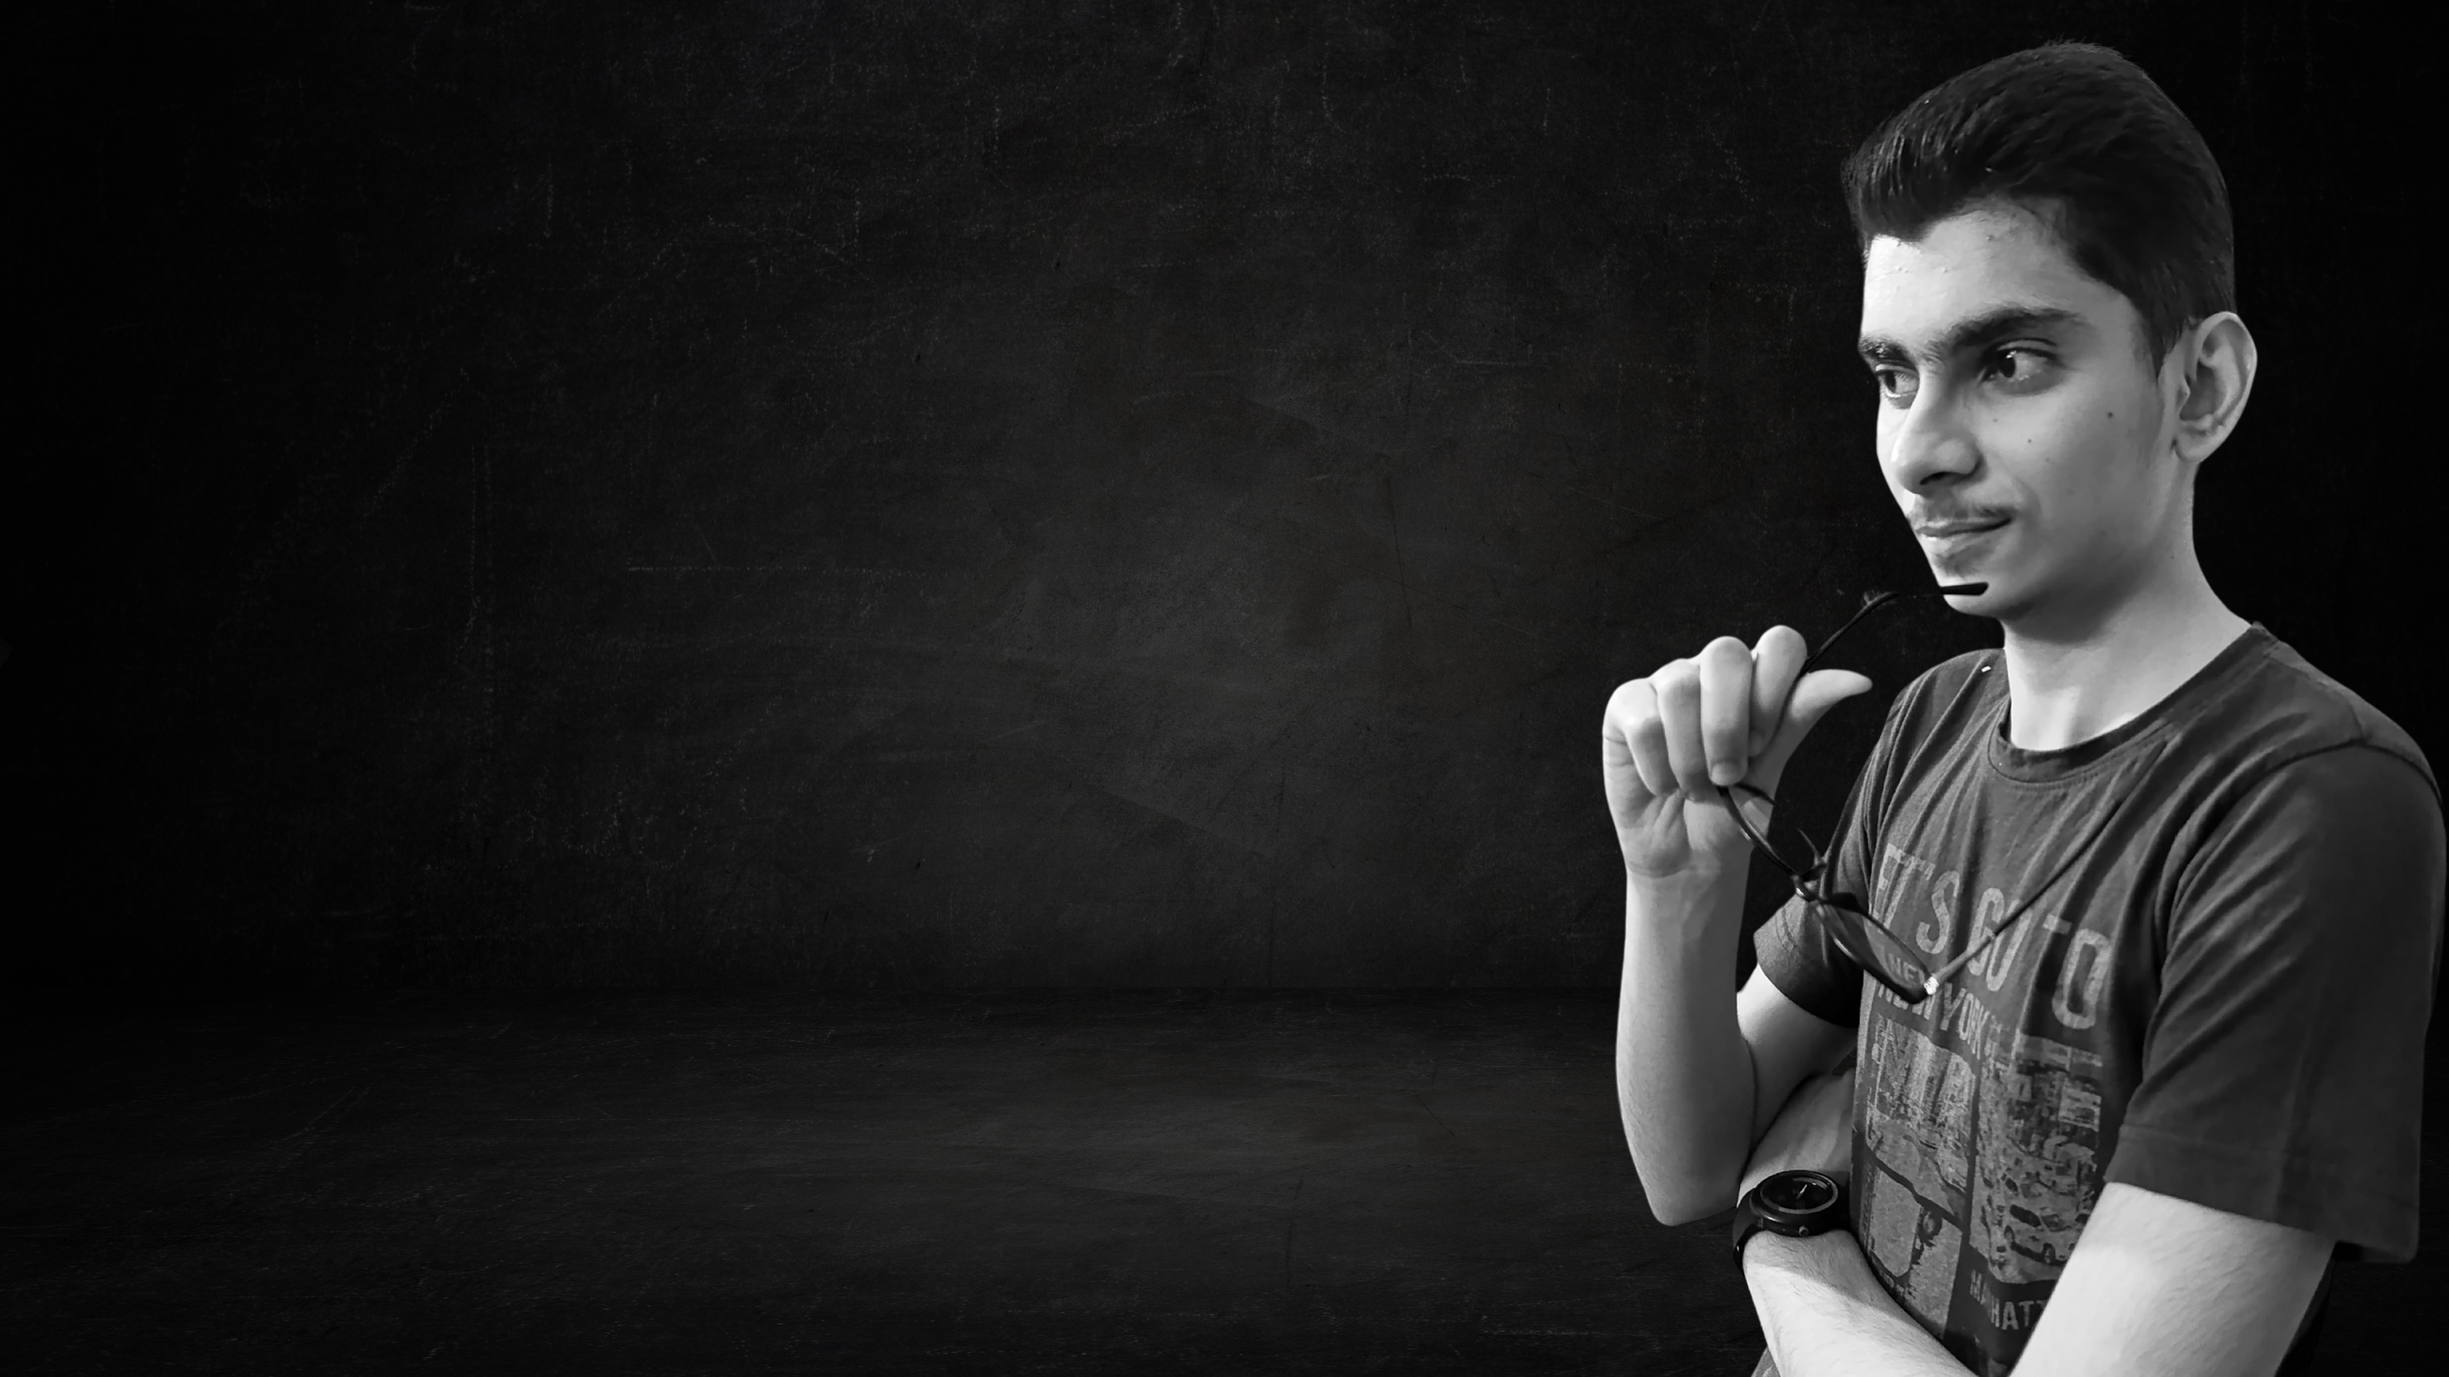
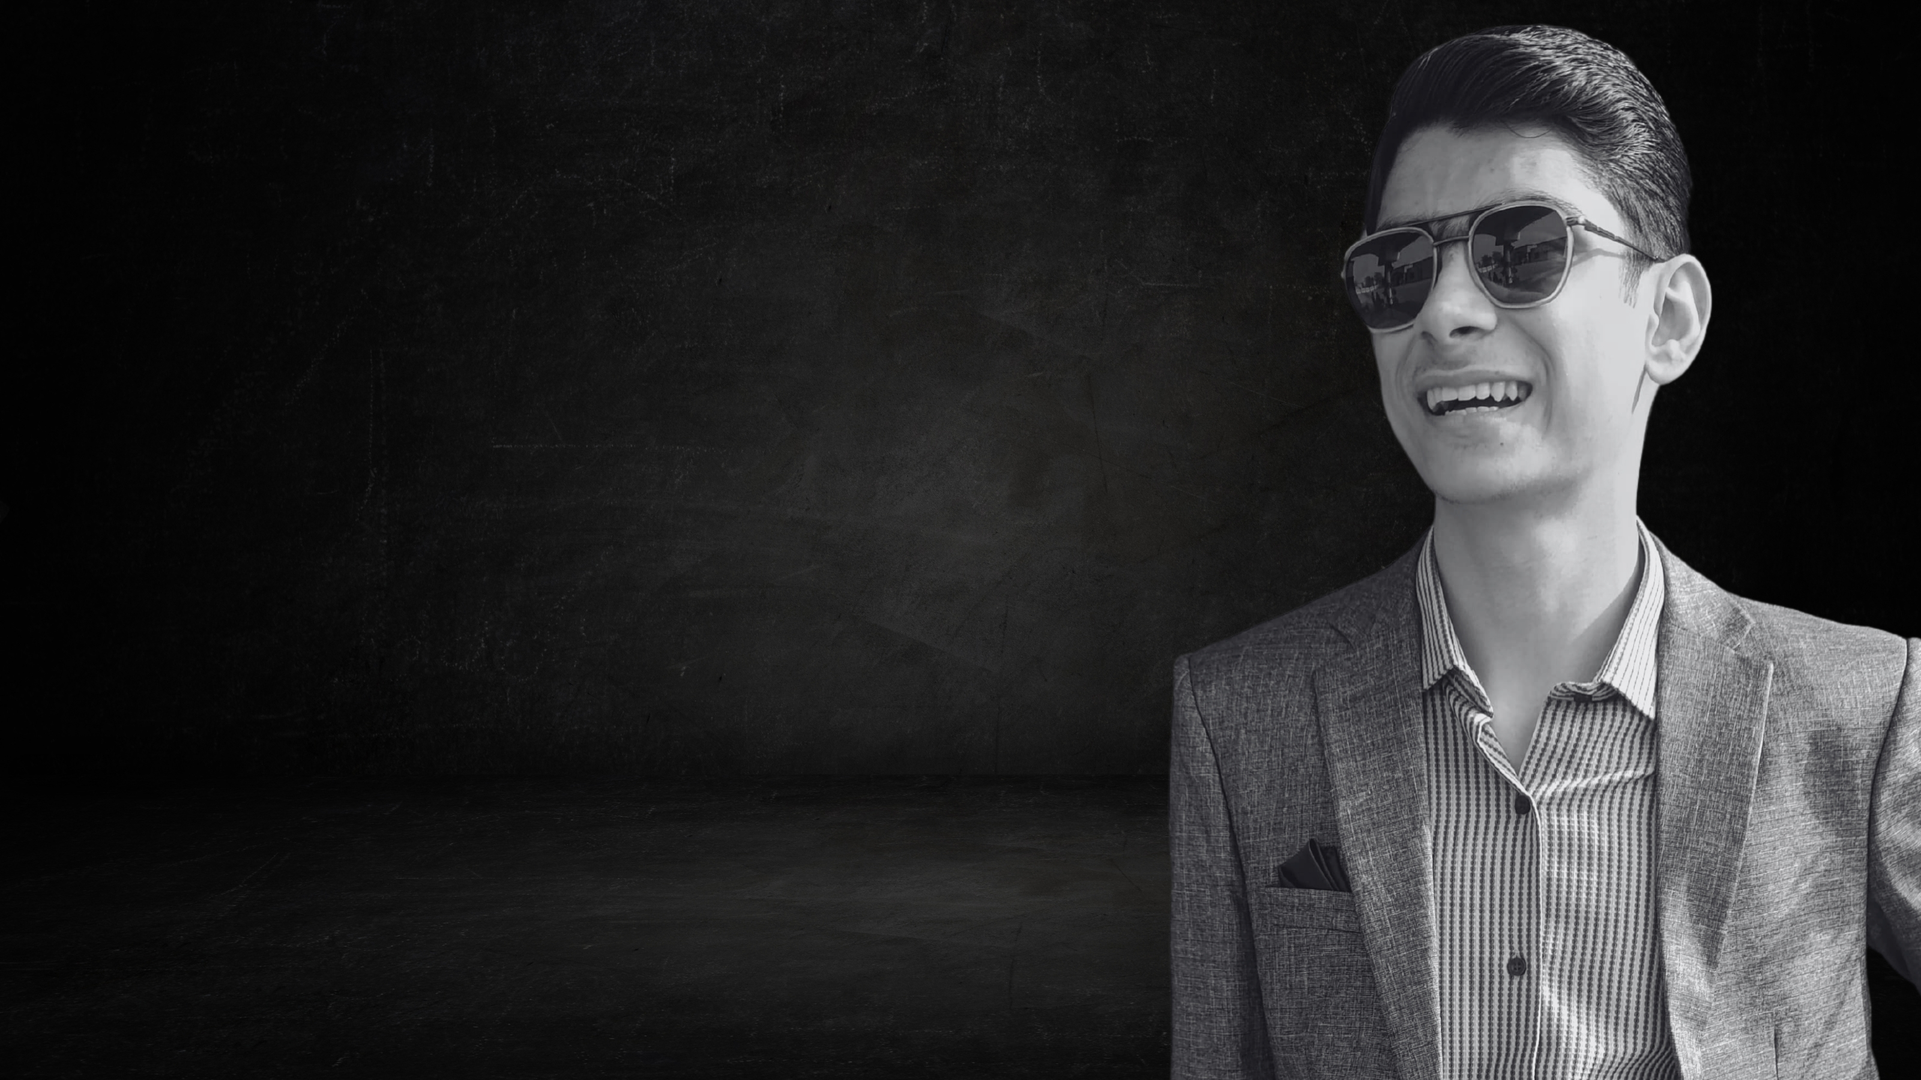
Fazal Portfolio Updated

Changed region(s): [[0.5938, 0.0, 1.0, 1.0]]

diff --git a/index.html b/index.html
@@ -54,9 +54,12 @@
       </nav><!-- .navbar -->
 
       <div class="social-links">
-        <a href="https://www.facebook.com/share/CXfZM9gv1AnUu2Z7/?mibextid=qi2Omg" target="_blank" class="facebook"><i class="bi bi-facebook"></i></a>
-        <a href="https://www.instagram.com/fazalshk_?igsh=cGVub3ZjaXU5bDV5" target="_blank" class="instagram"><i class="bi bi-instagram"></i></a>
-        <a href="https://www.linkedin.com/in/fazal-sheikh" target="_blank" class="linkedin"><i class="bi bi-linkedin"></i></a>
+        <a href="https://www.facebook.com/share/CXfZM9gv1AnUu2Z7/?mibextid=qi2Omg" target="_blank" class="facebook"><i
+            class="bi bi-facebook"></i></a>
+        <a href="https://www.instagram.com/fazalshk_?igsh=cGVub3ZjaXU5bDV5" target="_blank" class="instagram"><i
+            class="bi bi-instagram"></i></a>
+        <a href="https://www.linkedin.com/in/fazal-sheikh" target="_blank" class="linkedin"><i
+            class="bi bi-linkedin"></i></a>
       </div>
 
     </div>
@@ -97,7 +100,8 @@
             </div>
             <div class="col-lg-6">
               <ul>
-                <li><i class="bi bi-chevron-right"></i> <strong>Age:</strong> <span>19</span></li>
+                <li><i class="bi bi-chevron-right"></i> <strong>Essence:</strong> <span>Synergical &
+                    Philosophical</span></li>
                 <li><i class="bi bi-chevron-right"></i> <strong>Degree:</strong> <span>BBA (Ongoing)</span></li>
                 <li><i class="bi bi-chevron-right"></i> <strong>Email:</strong> <span>fazalassist@gmail.com</span></li>
                 <li><i class="bi bi-chevron-right"></i> <strong>Freelance:</strong> <span>Available</span></li>
@@ -327,13 +331,14 @@
             <div class="testimonial-item">
               <p>
                 <i class="bx bxs-quote-alt-left quote-icon-left"></i>
-                Proin iaculis purus consequat sem cure digni ssim donec porttitora entum suscipit rhoncus. Accusantium
-                quam, ultricies eget id, aliquam eget nibh et. Maecen aliquam, risus at semper.
+                Fazal Ellahi demonstrates an exceptional ability to analyze business needs and deliver strategic
+                solutions. His expertise in Amazon FBA, e-commerce operations, and digital marketing reflects a deep
+                understanding of market trends and execution strategies. A results-driven professional with an
+                innovative mindset.
                 <i class="bx bxs-quote-alt-right quote-icon-right"></i>
               </p>
-              <img src="assets/img/testimonials/testimonials-1.jpg" class="testimonial-img" alt="">
-              <h3>Saul Goodman</h3>
-              <h4>Ceo &amp; Founder</h4>
+              <h3>Gohar Ellahi</h3>
+              <h4>Software &amp; Engineer</h4>
             </div>
           </div><!-- End testimonial item -->
 
@@ -341,13 +346,13 @@
             <div class="testimonial-item">
               <p>
                 <i class="bx bxs-quote-alt-left quote-icon-left"></i>
-                Export tempor illum tamen malis malis eram quae irure esse labore quem cillum quid cillum eram malis
-                quorum velit fore eram velit sunt aliqua noster fugiat irure amet legam anim culpa.
+                Fazal’s structured and analytical approach to problem-solving makes him a standout professional. His
+                ability to streamline processes, manage complexities, and optimize performance is truly commendable. He
+                exhibits strong leadership, adaptability, and a growth-oriented mindset.
                 <i class="bx bxs-quote-alt-right quote-icon-right"></i>
               </p>
-              <img src="assets/img/testimonials/testimonials-2.jpg" class="testimonial-img" alt="">
-              <h3>Sara Wilsson</h3>
-              <h4>Designer</h4>
+              <h3>Hooria Amer</h3>
+              <h4>Clinical Psychologist</h4>
             </div>
           </div><!-- End testimonial item -->
 
@@ -355,44 +360,15 @@
             <div class="testimonial-item">
               <p>
                 <i class="bx bxs-quote-alt-left quote-icon-left"></i>
-                Enim nisi quem export duis labore cillum quae magna enim sint quorum nulla quem veniam duis minim tempor
-                labore quem eram duis noster aute amet eram fore quis sint minim.
+                Precision and efficiency define Fazal’s work ethic. His expertise in business development, client
+                relations, and data-driven decision-making positions him as a forward-thinking entrepreneur. His
+                commitment to excellence is evident in every project he undertakes
                 <i class="bx bxs-quote-alt-right quote-icon-right"></i>
               </p>
-              <img src="assets/img/testimonials/testimonials-3.jpg" class="testimonial-img" alt="">
-              <h3>Jena Karlis</h3>
-              <h4>Store Owner</h4>
+              <h3>Dr. Noor Aqsa</h3>
+              <h4>MBBS - Radiologist</h4>
             </div>
           </div><!-- End testimonial item -->
-
-          <div class="swiper-slide">
-            <div class="testimonial-item">
-              <p>
-                <i class="bx bxs-quote-alt-left quote-icon-left"></i>
-                Fugiat enim eram quae cillum dolore dolor amet nulla culpa multos export minim fugiat minim velit minim
-                dolor enim duis veniam ipsum anim magna sunt elit fore quem dolore labore illum veniam.
-                <i class="bx bxs-quote-alt-right quote-icon-right"></i>
-              </p>
-              <img src="assets/img/testimonials/testimonials-4.jpg" class="testimonial-img" alt="">
-              <h3>Matt Brandon</h3>
-              <h4>Freelancer</h4>
-            </div>
-          </div><!-- End testimonial item -->
-
-          <div class="swiper-slide">
-            <div class="testimonial-item">
-              <p>
-                <i class="bx bxs-quote-alt-left quote-icon-left"></i>
-                Quis quorum aliqua sint quem legam fore sunt eram irure aliqua veniam tempor noster veniam enim culpa
-                labore duis sunt culpa nulla illum cillum fugiat legam esse veniam culpa fore nisi cillum quid.
-                <i class="bx bxs-quote-alt-right quote-icon-right"></i>
-              </p>
-              <img src="assets/img/testimonials/testimonials-5.jpg" class="testimonial-img" alt="">
-              <h3>John Larson</h3>
-              <h4>Entrepreneur</h4>
-            </div>
-          </div><!-- End testimonial item -->
-
         </div>
         <div class="swiper-pagination"></div>
       </div>
@@ -615,179 +591,6 @@
 
     </div>
   </section>
-  <!-- End Services Section -->
-
-  <!-- ======= Portfolio Section ======= -->
-  <!-- <section id="portfolio" class="portfolio">
-    <div class="container">
-
-      <div class="section-title">
-        <h2>Portfolio</h2>
-        <p>My Works</p>
-      </div>
-
-      <div class="row">
-        <div class="col-lg-12 d-flex justify-content-center">
-          <ul id="portfolio-flters">
-            <li data-filter="*" class="filter-active">All</li>
-            <li data-filter=".filter-app">App</li>
-            <li data-filter=".filter-card">Card</li>
-            <li data-filter=".filter-web">Web</li>
-          </ul>
-        </div>
-      </div>
-
-      <div class="row portfolio-container">
-
-        <div class="col-lg-4 col-md-6 portfolio-item filter-app">
-          <div class="portfolio-wrap">
-            <img src="assets/img/portfolio/portfolio-1.jpg" class="img-fluid" alt="">
-            <div class="portfolio-info">
-              <h4>App 1</h4>
-              <p>App</p>
-              <div class="portfolio-links">
-                <a href="assets/img/portfolio/portfolio-1.jpg" data-gallery="portfolioGallery"
-                  class="portfolio-lightbox" title="App 1"><i class="bx bx-plus"></i></a>
-                <a href="portfolio-details.html" data-gallery="portfolioDetailsGallery" data-glightbox="type: external"
-                  class="portfolio-details-lightbox" title="Portfolio Details"><i class="bx bx-link"></i></a>
-              </div>
-            </div>
-          </div>
-        </div>
-
-        <div class="col-lg-4 col-md-6 portfolio-item filter-web">
-          <div class="portfolio-wrap">
-            <img src="assets/img/portfolio/portfolio-2.jpg" class="img-fluid" alt="">
-            <div class="portfolio-info">
-              <h4>Web 3</h4>
-              <p>Web</p>
-              <div class="portfolio-links">
-                <a href="assets/img/portfolio/portfolio-2.jpg" data-gallery="portfolioGallery"
-                  class="portfolio-lightbox" title="Web 3"><i class="bx bx-plus"></i></a>
-                <a href="portfolio-details.html" data-gallery="portfolioDetailsGallery" data-glightbox="type: external"
-                  class="portfolio-details-lightbox" title="Portfolio Details"><i class="bx bx-link"></i></a>
-              </div>
-            </div>
-          </div>
-        </div>
-
-        <div class="col-lg-4 col-md-6 portfolio-item filter-app">
-          <div class="portfolio-wrap">
-            <img src="assets/img/portfolio/portfolio-3.jpg" class="img-fluid" alt="">
-            <div class="portfolio-info">
-              <h4>App 2</h4>
-              <p>App</p>
-              <div class="portfolio-links">
-                <a href="assets/img/portfolio/portfolio-3.jpg" data-gallery="portfolioGallery"
-                  class="portfolio-lightbox" title="App 2"><i class="bx bx-plus"></i></a>
-                <a href="portfolio-details.html" data-gallery="portfolioDetailsGallery" data-glightbox="type: external"
-                  class="portfolio-details-lightbox" title="Portfolio Details"><i class="bx bx-link"></i></a>
-              </div>
-            </div>
-          </div>
-        </div>
-
-        <div class="col-lg-4 col-md-6 portfolio-item filter-card">
-          <div class="portfolio-wrap">
-            <img src="assets/img/portfolio/portfolio-4.jpg" class="img-fluid" alt="">
-            <div class="portfolio-info">
-              <h4>Card 2</h4>
-              <p>Card</p>
-              <div class="portfolio-links">
-                <a href="assets/img/portfolio/portfolio-4.jpg" data-gallery="portfolioGallery"
-                  class="portfolio-lightbox" title="Card 2"><i class="bx bx-plus"></i></a>
-                <a href="portfolio-details.html" data-gallery="portfolioDetailsGallery" data-glightbox="type: external"
-                  class="portfolio-details-lightbox" title="Portfolio Details"><i class="bx bx-link"></i></a>
-              </div>
-            </div>
-          </div>
-        </div>
-
-        <div class="col-lg-4 col-md-6 portfolio-item filter-web">
-          <div class="portfolio-wrap">
-            <img src="assets/img/portfolio/portfolio-5.jpg" class="img-fluid" alt="">
-            <div class="portfolio-info">
-              <h4>Web 2</h4>
-              <p>Web</p>
-              <div class="portfolio-links">
-                <a href="assets/img/portfolio/portfolio-5.jpg" data-gallery="portfolioGallery"
-                  class="portfolio-lightbox" title="Web 2"><i class="bx bx-plus"></i></a>
-                <a href="portfolio-details.html" data-gallery="portfolioDetailsGallery" data-glightbox="type: external"
-                  class="portfolio-details-lightbox" title="Portfolio Details"><i class="bx bx-link"></i></a>
-              </div>
-            </div>
-          </div>
-        </div>
-
-        <div class="col-lg-4 col-md-6 portfolio-item filter-app">
-          <div class="portfolio-wrap">
-            <img src="assets/img/portfolio/portfolio-6.jpg" class="img-fluid" alt="">
-            <div class="portfolio-info">
-              <h4>App 3</h4>
-              <p>App</p>
-              <div class="portfolio-links">
-                <a href="assets/img/portfolio/portfolio-6.jpg" data-gallery="portfolioGallery"
-                  class="portfolio-lightbox" title="App 3"><i class="bx bx-plus"></i></a>
-                <a href="portfolio-details.html" data-gallery="portfolioDetailsGallery" data-glightbox="type: external"
-                  class="portfolio-details-lightbox" title="Portfolio Details"><i class="bx bx-link"></i></a>
-              </div>
-            </div>
-          </div>
-        </div>
-
-        <div class="col-lg-4 col-md-6 portfolio-item filter-card">
-          <div class="portfolio-wrap">
-            <img src="assets/img/portfolio/portfolio-7.jpg" class="img-fluid" alt="">
-            <div class="portfolio-info">
-              <h4>Card 1</h4>
-              <p>Card</p>
-              <div class="portfolio-links">
-                <a href="assets/img/portfolio/portfolio-7.jpg" data-gallery="portfolioGallery"
-                  class="portfolio-lightbox" title="Card 1"><i class="bx bx-plus"></i></a>
-                <a href="portfolio-details.html" data-gallery="portfolioDetailsGallery" data-glightbox="type: external"
-                  class="portfolio-details-lightbox" title="Portfolio Details"><i class="bx bx-link"></i></a>
-              </div>
-            </div>
-          </div>
-        </div>
-
-        <div class="col-lg-4 col-md-6 portfolio-item filter-card">
-          <div class="portfolio-wrap">
-            <img src="assets/img/portfolio/portfolio-8.jpg" class="img-fluid" alt="">
-            <div class="portfolio-info">
-              <h4>Card 3</h4>
-              <p>Card</p>
-              <div class="portfolio-links">
-                <a href="assets/img/portfolio/portfolio-8.jpg" data-gallery="portfolioGallery"
-                  class="portfolio-lightbox" title="Card 3"><i class="bx bx-plus"></i></a>
-                <a href="portfolio-details.html" data-gallery="portfolioDetailsGallery" data-glightbox="type: external"
-                  class="portfolio-details-lightbox" title="Portfolio Details"><i class="bx bx-link"></i></a>
-              </div>
-            </div>
-          </div>
-        </div>
-
-        <div class="col-lg-4 col-md-6 portfolio-item filter-web">
-          <div class="portfolio-wrap">
-            <img src="assets/img/portfolio/portfolio-9.jpg" class="img-fluid" alt="">
-            <div class="portfolio-info">
-              <h4>Web 3</h4>
-              <p>Web</p>
-              <div class="portfolio-links">
-                <a href="assets/img/portfolio/portfolio-9.jpg" data-gallery="portfolioGallery"
-                  class="portfolio-lightbox" title="Web 3"><i class="bx bx-plus"></i></a>
-                <a href="portfolio-details.html" data-gallery="portfolioDetailsGallery" data-glightbox="type: external"
-                  class="portfolio-details-lightbox" title="Portfolio Details"><i class="bx bx-link"></i></a>
-              </div>
-            </div>
-          </div>
-        </div>
-
-      </div>
-
-    </div>
-  </section> -->
-  <!-- End Portfolio Section -->
 
   <!-- ======= Contact Section ======= -->
   <section id="contact" class="contact">
@@ -813,9 +616,12 @@
             <i class="bx bx-share-alt"></i>
             <h3>Social Profiles</h3>
             <div class="social-links">
-              <a href="https://www.facebook.com/share/CXfZM9gv1AnUu2Z7/?mibextid=qi2Omg" target="_blank" class="facebook"><i class="bi bi-facebook"></i></a>
-              <a href="https://www.instagram.com/fazalshk_?igsh=cGVub3ZjaXU5bDV5" target="_blank" class="instagram"><i class="bi bi-instagram"></i></a>
-              <a href="https://www.linkedin.com/in/fazal-sheikh" target="_blank" class="linkedin"><i class="bi bi-linkedin"></i></a>
+              <a href="https://www.facebook.com/share/CXfZM9gv1AnUu2Z7/?mibextid=qi2Omg" target="_blank"
+                class="facebook"><i class="bi bi-facebook"></i></a>
+              <a href="https://www.instagram.com/fazalshk_?igsh=cGVub3ZjaXU5bDV5" target="_blank" class="instagram"><i
+                  class="bi bi-instagram"></i></a>
+              <a href="https://www.linkedin.com/in/fazal-sheikh" target="_blank" class="linkedin"><i
+                  class="bi bi-linkedin"></i></a>
             </div>
           </div>
         </div>
@@ -824,41 +630,17 @@
           <div class="info-box">
             <i class="bx bx-envelope"></i>
             <h3>Email Me</h3>
-            <p>fazalassist@gmail.com</p>
+            <p><a href="mailto:fazalassist@gmail.com">fazalassist@gmail.com</a></p>
           </div>
         </div>
         <div class="col-md-6 mt-4 d-flex align-items-stretch">
           <div class="info-box">
             <i class="bx bx-phone-call"></i>
             <h3>Call Me</h3>
-            <p>+92 325 571 6415</p>
+            <p><a href="https://wa.me/+923255716415">+92 325 571 6415</a></p>
           </div>
         </div>
       </div>
-
-      <form action="forms/contact.php" method="post" role="form" class="php-email-form mt-4">
-        <div class="row">
-          <div class="col-md-6 form-group">
-            <input type="text" name="name" class="form-control" id="name" placeholder="Your Name" required>
-          </div>
-          <div class="col-md-6 form-group mt-3 mt-md-0">
-            <input type="email" class="form-control" name="email" id="email" placeholder="Your Email" required>
-          </div>
-        </div>
-        <div class="form-group mt-3">
-          <input type="text" class="form-control" name="subject" id="subject" placeholder="Subject" required>
-        </div>
-        <div class="form-group mt-3">
-          <textarea class="form-control" name="message" rows="5" placeholder="Message" required></textarea>
-        </div>
-        <div class="my-3">
-          <div class="loading">Loading</div>
-          <div class="error-message"></div>
-          <div class="sent-message">Your message has been sent. Thank you!</div>
-        </div>
-        <div class="text-center"><button type="submit">Send Message</button></div>
-      </form>
-
     </div>
   </section><!-- End Contact Section -->
 
